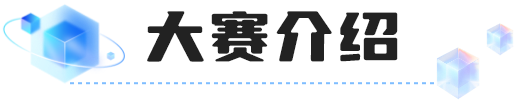
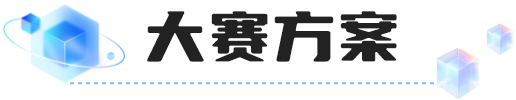
update ui images

Changed region(s): [[0.5271, 0.09, 0.7752, 0.63]]

diff --git a/frontend/src/pages/HomePage.vue b/frontend/src/pages/HomePage.vue
@@ -2,7 +2,9 @@
 import { ref, onMounted, h } from 'vue'
 import { useRouter } from 'vue-router'
 import { contentApi, workApi } from '@/api'
-import bannerHome from '@/assets/images/banner_home.png'
+import banner1 from '@/assets/images/banner_1.png'
+import banner2 from '@/assets/images/banner_2.png'
+import banner3 from '@/assets/images/banner_3.png'
 import overviewImage from '@/assets/images/img_home_overview.png'
 import guideSignup from '@/assets/images/img_home_01.png'
 import guideMaterials from '@/assets/images/img_home_02.png'
@@ -52,9 +54,9 @@ SectionTitle.props = {
 }
 
 const banners = [
-  { image: bannerHome, alt: '2026年云南大学首届人工智能创新应用大赛' },
-  { image: bannerHome, alt: '数启云大 智创未来' },
-  { image: bannerHome, alt: '基于大模型的校园生活智能体创新应用' }
+  { image: banner1, alt: '2026年云南大学首届人工智能创新应用大赛' },
+  { image: banner2, alt: '数启云大 智创未来' },
+  { image: banner3, alt: '基于大模型的校园生活智能体创新应用' }
 ]
 
 const timeline = [
@@ -242,9 +244,11 @@ onMounted(async () => {
           </el-card>
           <el-card v-if="works.length === 0" class="home-work-card !rounded-[10px] border-0">
             <template #default>
+              <!--
               <div class="text-center py-8 text-gray-400">
                 <p>暂无参赛作品</p>
               </div>
+              -->
             </template>
           </el-card>
         </div>

diff --git a/frontend/src/plugins/markdown.ts b/frontend/src/plugins/markdown.ts
@@ -37,7 +37,9 @@ function mediaPlugin(md: any) {
     pdf: (href: string, title: string) => `
       <div class="md-media md-pdf">
         ${title ? `<div class="md-media-header">${iconPdf}<span class="md-media-title">${title}</span></div>` : ''}
-        <iframe src="/pdfjs/web/viewer.html?file=${encodeURIComponent(href)}" class="md-pdf-frame" loading="lazy"></iframe>
+        <object data="${href}" type="application/pdf" width="100%" height="500px">
+          <iframe src="/pdfjs/web/viewer.html?file=${encodeURIComponent(href)}" width="100%" height="500px"></iframe>
+        </object>
       </div>`,
     audio: (href: string, title: string) => `
       <div class="md-media md-audio">